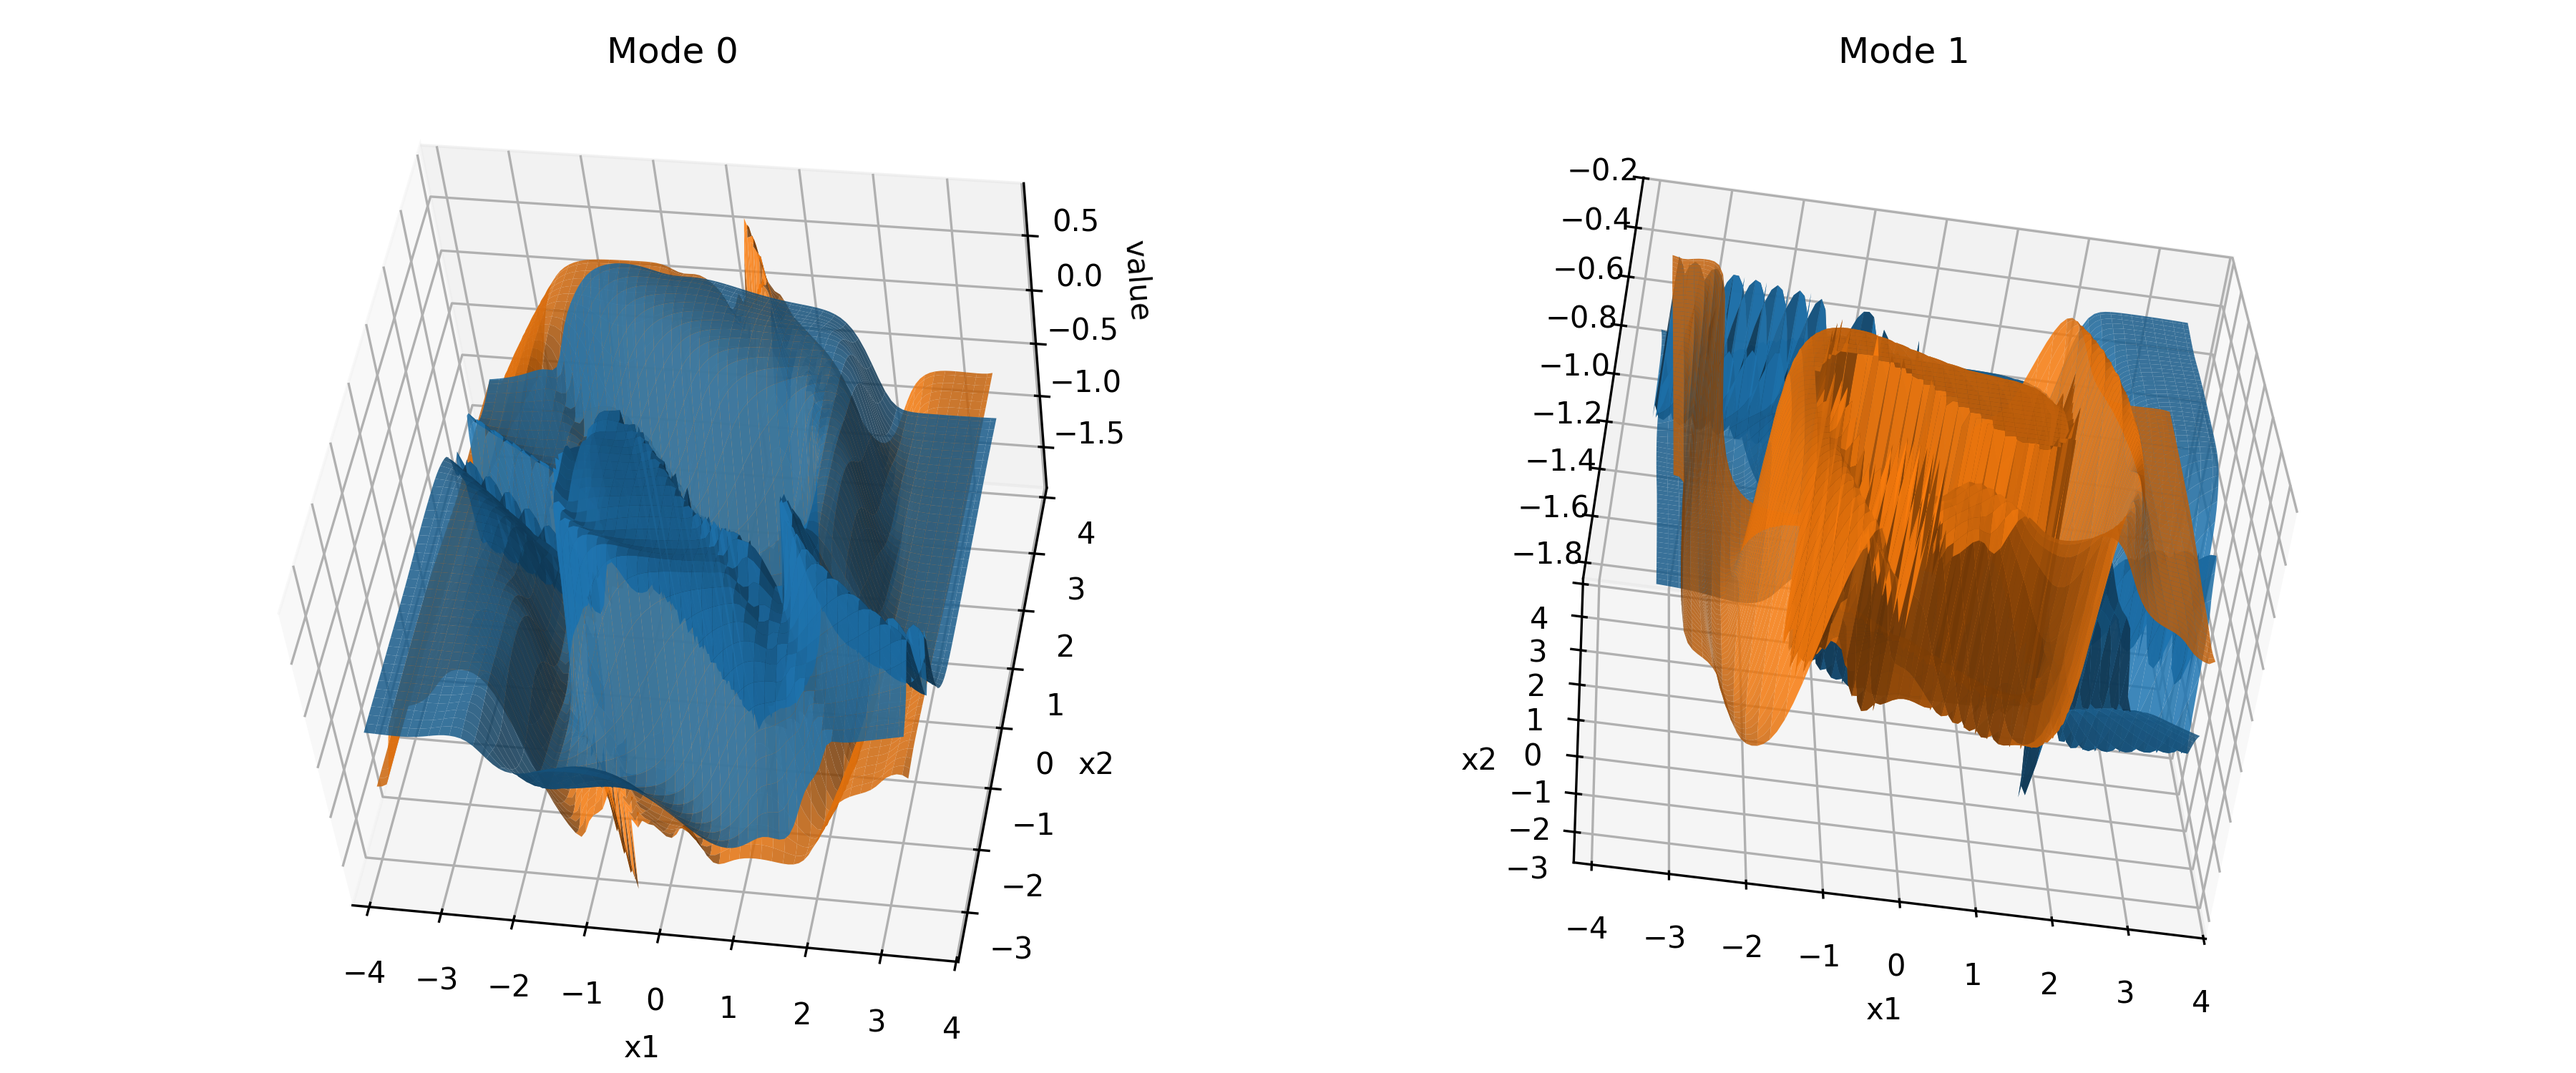
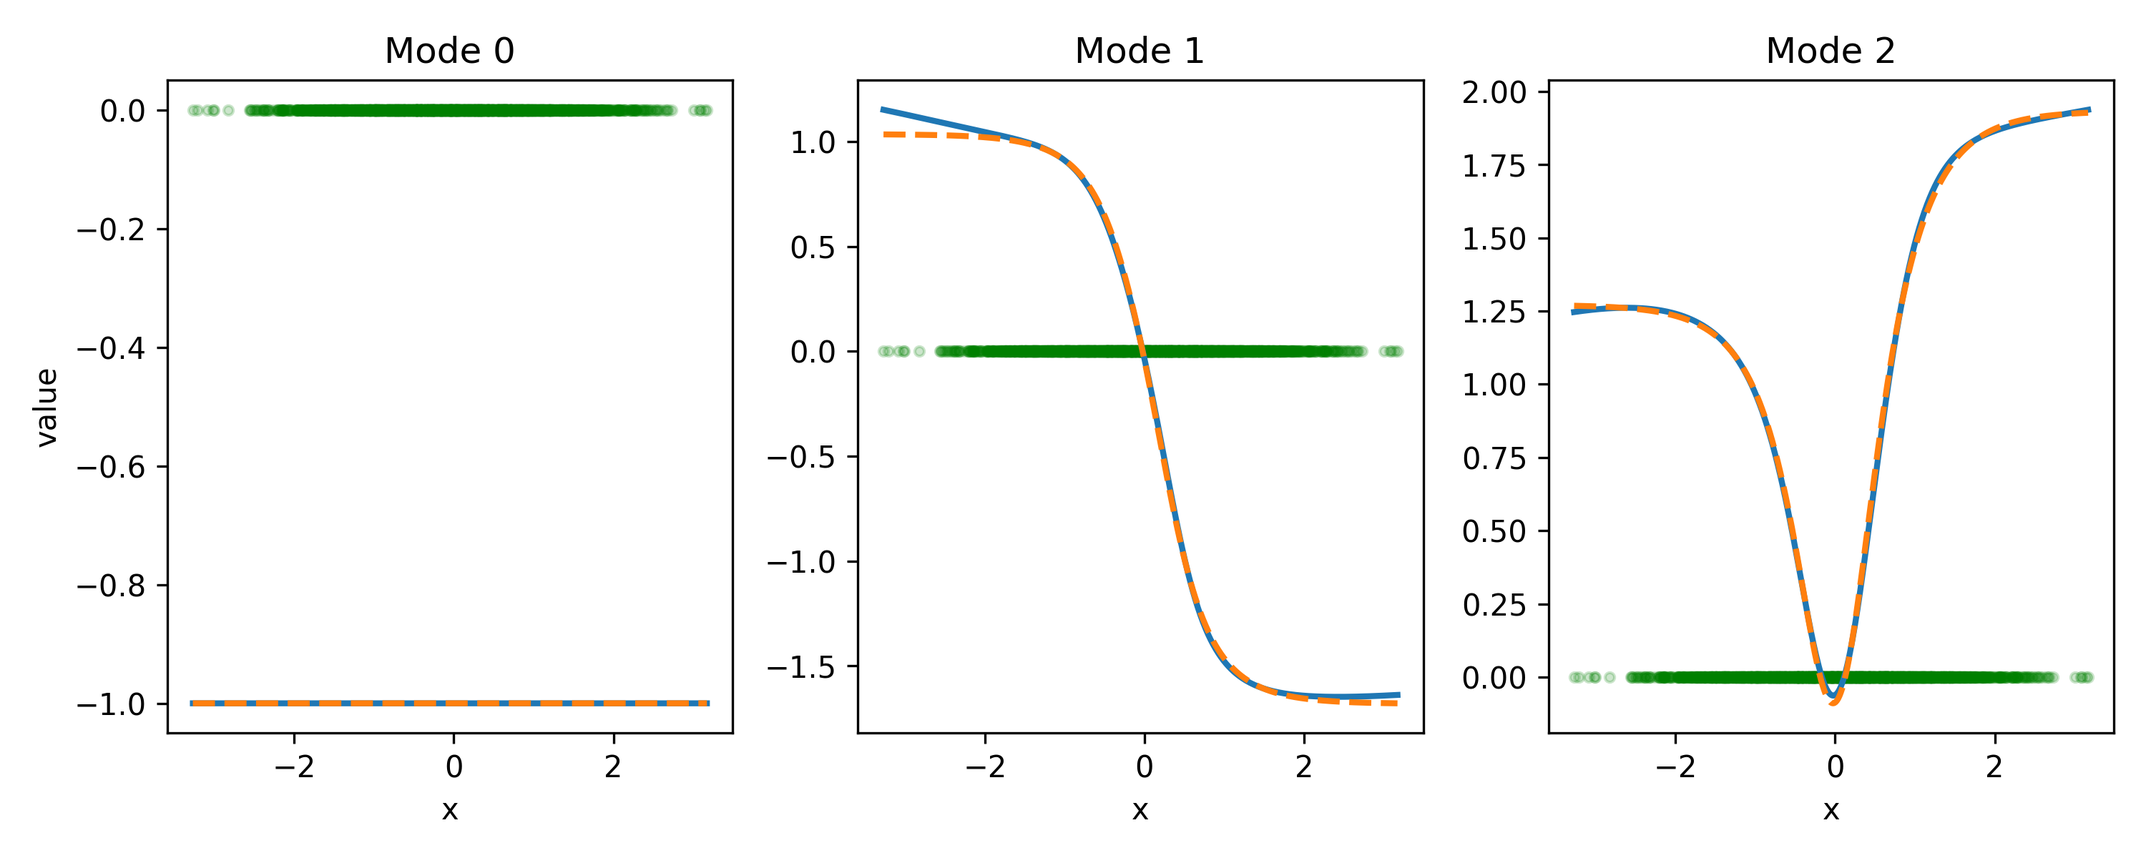
Duffing in progress

diff --git a/examples/utils.py b/examples/utils.py
@@ -24,9 +24,9 @@ def _plot_function_1d(
     eigvals: np.ndarray,
     eigvecs: np.ndarray,
     X: np.ndarray,
+    *,
+    plot_sample: bool = True,
 ):
-    V = obs.eval(X)
-
     # Smooth grid for plotting the learned function
     X_grid = np.linspace(X.min(), X.max(), 400)[:, None]
     X_grid_next = sys.next(X_grid)
@@ -43,14 +43,18 @@ def _plot_function_1d(
         ax = axes[j]
         eigvec = eigvecs[:, j]
         eigval = eigvals[j]
-        W = V_grid @ eigvec
-        W_next = V_grid_next @ (eigvec / eigval)
+        G = V_grid @ eigvec
+        G_next = V_grid_next @ (eigvec / eigval)
 
-        # ax.scatter(X[:, 0], V @ eigvec, marker="x", c="green", s=10, alpha=0.2)
+        if plot_sample:
+            ax.scatter(
+                X[:, 0], np.zeros(X.shape[0]),
+                c="green", s=10, alpha=0.2,
+            )
 
         # learned function and Koopman image
-        ax.plot(X_grid[:, 0], W, lw=2)
-        ax.plot(X_grid[:, 0], W_next, ls="--", lw=2)
+        ax.plot(X_grid[:, 0], G, lw=2)
+        ax.plot(X_grid[:, 0], G_next, ls="--", lw=2)
 
         ax.set_title(f"Mode {j}")
         ax.set_xlabel("x")
@@ -67,9 +71,9 @@ def _plot_function_2d(
     eigvals: np.ndarray,
     eigvecs: np.ndarray,
     X: np.ndarray,
+    *,
+    plot_sample: bool = False,
 ):
-    V = obs.eval(X)
-
     # Smooth grid for plotting the learned function
     n_grid = 100
     x1 = np.linspace(X[:, 0].min(), X[:, 0].max(), n_grid)
@@ -82,50 +86,38 @@ def _plot_function_2d(
     V_grid_next = obs.eval(X_grid_next)
     n_mode = len(eigvals)
 
-    fig, axes = plt.subplots(
-        1,
-        n_mode,
-        figsize=(12, 5),
-        # subplot_kw={"projection": "3d"},
-    )
+    fig, axes = plt.subplots(2, n_mode, figsize=(12, 7), sharex=True)
 
     if n_mode == 1:
-        axes = [axes]
-
-    vmin = np.min(V)
-    vmax = np.max(V)
+        axes = axes[:, None]
 
     for j in range(n_mode):
-        ax = axes[j]
+        ax = axes[0, j]
+        ax_next = axes[1, j]
         eigvec = eigvecs[:, j]
         eigval = eigvals[j]
-        W = V_grid @ eigvec
-        W_next = V_grid_next @ (eigvec / eigval)
-
-        # ax.scatter(
-        #     X[:, 0],
-        #     X[:, 1],
-        #     V[:, j],
-        #     s=20,
-        #     alpha=0.5,
-        #     edgecolors="none",
-        # )
-
+        G = V_grid @ eigvec
+        G_next = V_grid_next @ (eigvec / eigval)
         # reshape grid evaluation
-        Z = W.reshape(n_grid, n_grid)
-        Z_next = W_next.reshape(n_grid, n_grid)
+        Z = G.reshape(n_grid, n_grid)
+        Z_next = G_next.reshape(n_grid, n_grid)
 
-        # surface plot of learned function
-        # ax.plot_surface(X1, X2, Z, lw=0, antialiased=True, alpha=0.85)
-        # ax.plot_surface(X1, X2, Z_next, lw=0, antialiased=True, alpha=0.85)
-        ax.contourf(X1, X2, Z)
+        cf = ax.contourf(X1, X2, Z)
+        plt.colorbar(cf, ax=ax)
+        cf_next = ax_next.contourf(X1, X2, Z_next)
+        plt.colorbar(cf_next, ax=ax_next)
+
+        if plot_sample:
+            ax.scatter(
+                X[:, 0], X[:, 1],
+                c="black", s=5, alpha=0.2,
+            )
 
         ax.set_title(f"Mode {j}")
-        ax.set_xlabel("x1")
-        ax.set_ylabel("x2")
+        ax_next.set_xlabel("x1")
         if j == 0:
-            # ax.set_zlabel("value")
-            pass
+            ax.set_ylabel("x2")
+            ax_next.set_ylabel("x2")
 
     fig.tight_layout()
 

diff --git a/examples/duffing.py b/examples/duffing.py
@@ -53,7 +53,7 @@ elif args.neural:
         hidden_dims=(16, 16),
         activation="tanh",
         lr=1e-3,
-        epochs=800,
+        epochs=1600,
         dtype="float32",
     )
 elif args.edmd:
@@ -66,21 +66,8 @@ else:
 
 # Initialize observer
 if not args.edmd:
-    # N = 2000
-    # X = dom.sample(N)
-
-    # centers = np.array([
-    #     [-1.0, 0.0],
-    #     [+1.0, 0.0],
-    # ])
-    # # Compute pairwise distances
-    # dists = np.linalg.norm(X[:, None, :] - centers[None, :, :], axis=2)
-    # V = np.maximum(0.0, 1.0 - dists)
-
-    # obs.fit(X, V)
-
     rng = np.random.default_rng(1)
-    N = 2000
+    N = 2500
     X = dom.sample(N)
 
     # target: ``V[:, k] =
@@ -97,7 +84,7 @@ if not args.edmd:
 # -------------------------
 # Koopman iterations
 # -------------------------
-N = 2500
+N = 10_000
 max_iter = 50
 
 if not args.edmd:
